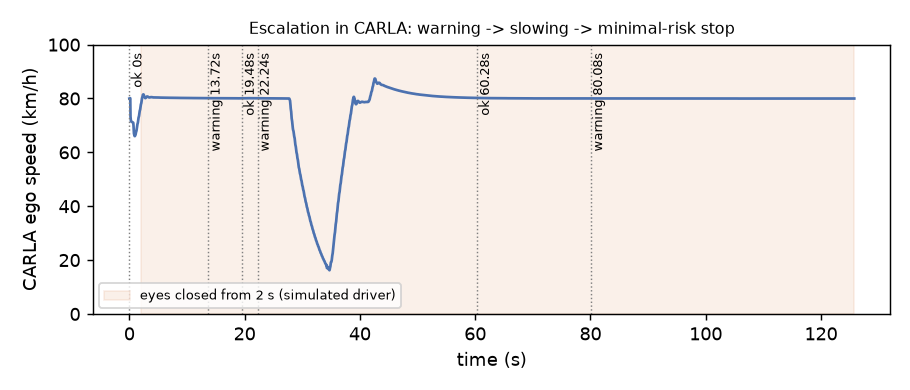
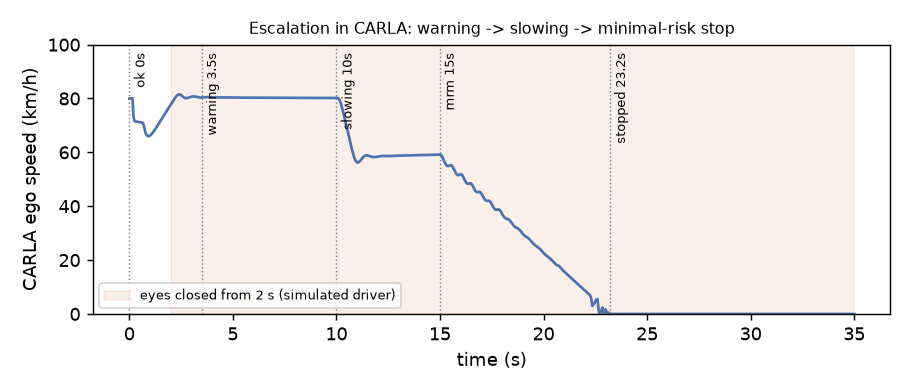
Audit fixes: correct headline numbers (22/49 same detector; night 10/27 robust, 16/27 with EAR), escalation chart from the right run, LICENSE (MIT) + data terms, requirements.txt, unpublish private CARLA study notes, stale refs, E7 order

diff --git a/scripts/make_results.py b/scripts/make_results.py
@@ -198,9 +198,9 @@ def main():
         if (OUT / src).exists():
             shutil.copy(OUT / src, RES / dst)
     dmd_steps(RES / "dmd_steps.png")
-    live = sorted(OUT.glob("live_*.csv"))
-    if live:
-        live_escalation(live[-1], RES / "live_escalation.png")
+    esc_csv = OUT / "live_20261020_230149.csv"  # the simulated sleeping driver run shown in carla_escalation_sim.mp4 (not simply the latest run)
+    if esc_csv.exists():
+        live_escalation(esc_csv, RES / "live_escalation.png")
     cosmos_panel(OUT / "cosmos", RES / "carla_control_videos.png")
     sbs = OUT / "videos/carla_real_face_take5.mp4"  # take 5 (own face) driving the CARLA ego: live_demo.py <clip> --video
     if sbs.exists():

diff --git a/scripts/live_demo.py b/scripts/live_demo.py
@@ -173,7 +173,7 @@ try:
     tf = wp.transform
     tf.location.z += 0.3
     ebp = world.get_blueprint_library().find("vehicle.tesla.model3")
-    ebp.set_attribute("role_name", "hero")  # lets the replay (carla_video.py) find the ego among the traffic
+    ebp.set_attribute("role_name", "hero")  # marks the ego among the traffic (CARLA recorder queries, e.g. collisions by role "hero")
     ego = world.spawn_actor(ebp, tf)
     actors.append(ego)
     fwd = wp.transform.get_forward_vector()

diff --git a/README.md b/README.md
@@ -49,7 +49,7 @@ Eyes close → sleep warning → DMS level WARNING in the car. The driver looks 
   <img src="results/demo_carla_safe_stop.gif" width="420" alt="CARLA: slowing, minimal-risk manoeuvre, lane change right, stop at the lane edge">
   <img src="results/live_escalation.png" width="440" alt="CARLA ego speed during escalation">
 </p>
-<p align="center"><sub>If the driver stays asleep (simulated driver, eyes closed from 2 s): warning 3.5 s, slowing to 60 km/h from 10 s,
+<p align="center"><sub>If the driver stays asleep (simulated driver, eyes closed from 2 s): warning 3.5 s, slowing to 60 km/h from 10 s (8 s after the eyes closed),
 minimal-risk manoeuvre from 15 s (hazards on, CARLA's planner checks the right lane is free, moves one lane right, brakes at
 2 m/s² to the lane's right edge), standstill at 23.2 s.</sub></p>
 <p align="center"><a href="results/videos/carla_minimal_risk_manoeuvre.mp4?raw=true">⬇ full run, 35 s (MP4 download)</a> · GIF above is a short excerpt</p>
@@ -58,7 +58,7 @@ minimal-risk manoeuvre from 15 s (hazards on, CARLA's planner checks the right l
 
 1. **Most of the early "failures" were test-setup mistakes, not detector mistakes.** On real drivers the first run caught only
    7 of 66 events in time. Scoring only where the dataset has labels, calibrating over 20 s instead of 2 s, and defining
-   "closed" as lids actually shut raised that to 30 of 49, without changing the detector.
+   "closed" as lids actually shut raised that to 22 of 49 with the same blink-score detector (30 of 49 with the EAR signal).
 2. **Big AI models did not beat the simple signals.** DINOv2 and CLIP (foundation models) recognised closed eyes about as well as
    the simple eyelid measurement (≈ 97 % per frame). Large chat-style vision models (VLMs) were close to guessing and took
    3-9 seconds per frame. For a warning that must come within 0.2 s, the small fast model is the right tool.
@@ -76,7 +76,7 @@ minimal-risk manoeuvre from 15 s (hazards on, CARLA's planner checks the right l
 3. **Driver state changes the crash outcome, and detector accuracy decides by how much.** In CARLA, a distracted driver with a
    standard collision warning crashes at 30 and 50 km/h; warning earlier because the camera flags the distraction avoids both.
    A Monte Carlo over driver reaction times then plugs in the accuracy measured on real drivers: at 50 km/h the crash rate falls
-   from 87 % (no DMS) to 44 % (our measured DMS) and 17 % (ideal DMS). Reaction times are an assumption; the chain is the point.
+   from 87 % (no DMS) to 44 % (measured DMS: EAR, lids-shut labels, 61 % caught) and 17 % (ideal DMS). Reaction times are an assumption; the chain is the point.
 
 <p align="center">
   <img src="results/dmd_steps.png" width="49%" alt="DMD hit rate per measurement fix">
@@ -86,7 +86,7 @@ minimal-risk manoeuvre from 15 s (hazards on, CARLA's planner checks the right l
   <img src="results/dms_safety_mc.png" width="90%" alt="Crash probability vs speed for no DMS, measured DMS and ideal DMS">
 </p>
 
-Personal project: small datasets, simplified car physics, no product claims.
+Personal project by Harish Deepak (TU Darmstadt), October 2026: small datasets, simplified car physics, no product claims.
 
 Every number, including what did not work: [`docs/EXPERIMENTS.md`](docs/EXPERIMENTS.md). How each warning is scored: [`docs/METHOD.md`](docs/METHOD.md).
 
@@ -124,7 +124,7 @@ Methods are organised in tiers, the way production DMS work splits them; every t
 
 | Tier | Runs where | Methods | Role here |
 |---|---|---|---|
-| 1. Real time | CPU, 25+ fps | MediaPipe blink score / EAR, head pose, MobileGaze CNN | warnings, escalation, CARLA |
+| 1. Real time | CPU, 25+ fps | MediaPipe blink score / EAR, head pose (MobileGaze CNN: 12-17 fps, below 25) | warnings, escalation, CARLA |
 | 2. Stronger perception | GPU, ~4 ms/frame | DINOv2 / CLIP features + linear probe | does a foundation backbone help? |
 | 3. Offline / cloud | seconds per frame | hosted VLMs (Llama 3.2 Vision, Nemotron VL) | auto-labelling, event review |
 | 4. Data generation | offline | Blender drivers, image variants, CARLA, Cosmos control videos | test cases you cannot record safely |
@@ -172,12 +172,16 @@ driver-attention-bench/
 ├── scripts/                entry points
 │   ├── run_clip.py         one video / camera → per-frame CSV + warnings
 │   ├── replay.py           re-run the decision step on saved signals (threshold sweeps, LOSO)
-│   ├── render_overlay.py   burn decisions, truth and warnings into a video   cues_to_labels.py  voice-cue log → labels
+│   ├── render_overlay.py   burn decisions, truth and warnings into a video
+│   ├── cues_to_labels.py   voice-cue log → labels (no detections used)
 │   ├── dmd_to_labels.py    DMD OpenLABEL → events + scoring scope
-│   ├── carla_fcw.py        collision-warning sweep      dms_safety_mc.py  DMS accuracy → crash Monte Carlo
+│   ├── carla_fcw.py        collision-warning sweep
+│   ├── dms_safety_mc.py    DMS accuracy → crash-probability Monte Carlo
 │   ├── live_demo.py        DMS → escalation → CARLA (traffic, minimal-risk manoeuvre via CARLA BasicAgent, --video)
 │   ├── ros2/               dms_state_pub.py (rclpy), record.sh (rosbag2)
-│   ├── fm_eye_probe.py     DINOv2 / CLIP probes (DMD)   ir_eye_probe.py  infrared (MRL Eye)   vlm_arm.py  hosted VLMs
+│   ├── fm_eye_probe.py     DINOv2 / CLIP probes (DMD)
+│   ├── ir_eye_probe.py     infrared eye images (MRL Eye)
+│   ├── vlm_arm.py          hosted vision-language models
 │   ├── cosmos_transfer.py  Cosmos Transfer request (prepared, endpoint unavailable on free tier)
 │   └── make_results.py     builds results/ from out/
 ├── scenarios/*.toml        test suites: clips × variants × settings
@@ -207,14 +211,18 @@ python scripts/live_demo.py sim:2-40 --headless --video out.mp4   # simulated dr
 bash scripts/ros2/record.sh
 ```
 
-**Setup.** Python 3.12: `mediapipe opencv-python onnxruntime carla matplotlib` (+ `torch transformers scikit-learn` for the
-foundation-model arms, `shapely networkx` for CARLA's navigation agents used in the minimal-risk manoeuvre). Models go in `models/`, not in git:
+**Setup.** Python 3.12: `pip install -r requirements.txt` (`mediapipe opencv-python onnxruntime carla matplotlib` (+ `torch transformers scikit-learn` for the
+foundation-model arms, `shapely networkx` for CARLA's navigation agents used in the minimal-risk manoeuvre)). Models go in `models/`, not in git:
 - `face_landmarker.task`: https://storage.googleapis.com/mediapipe-models/face_landmarker/face_landmarker/float16/1/face_landmarker.task
 - `yunet.onnx` (optional face fallback): `face_detection_yunet_2023mar.onnx` from opencv_zoo
 - `mobileone_s0_gaze.onnx` (optional `--gaze mobilegaze` arm): MobileGaze MobileOne-S0 export, MIT licence
 
 DMD is not redistributed (CC BY-NC-ND): request it from Vicomtech, then `python scripts/dmd_to_labels.py`.
 Optional parts (ROS 2, Blender, Cosmos): [`docs/details/`](docs/details/).
+
+## Licence
+
+Code: MIT (see `LICENSE`). Data and models are third-party and keep their own terms: DMD (Vicomtech, CC BY-NC-ND 4.0) is not redistributed; the NITYMED clips shown are CC BY 4.0 (Petrellis et al.); MediaPipe, MobileGaze, DINOv2 and CLIP models are downloaded from their sources.
 
 ## Limitations
 

diff --git a/docs/EXPERIMENTS.md b/docs/EXPERIMENTS.md
@@ -77,7 +77,7 @@ Free NVIDIA build.nvidia.com API, zero-shot, 142 frames. DMD is never sent (lice
 | Nemotron VL 120B (reasoning) | 0.59 | 0.63 | 8.6 (29 of 142 unparseable answers) |
 
 For comparison, the real-time pipeline scores ~0.97 per frame on eye state (E4) at ~30 ms. Zero-shot VLMs are near chance on
-eyelids and 100-300x too slow for a 25 Hz warning; their use is offline (labelling help, describing an event afterwards).
+eyelids and about 90-290x too slow for a 25 Hz warning; their use is offline (labelling help, describing an event afterwards).
 Caveat: 142 frames, synthetic faces, closures behind sunglasses count as "closed" in the labels.
 
 Listed but not callable on the free tier (HTTP 404 "Function not found for account"): Cosmos Reason 2, Gemma 3, VILA, Phi-3 Vision.
@@ -95,7 +95,18 @@ Listed but not callable on the free tier (HTTP 404 "Function not found for accou
 At 80 km/h a 2 s warning is too late even for an attentive driver: the sweep shows the limit of warning-only systems.
 
 **Live escalation** (`scripts/live_demo.py`, simulated driver, eyes closed from 2 s): warning 3.5 s, slowing 10 s, minimal-risk stop 15 s,
-standstill 22.5 s (`results/live_escalation.png`). The DMS state is also published as ROS 2 topic `/dms/state` and recorded to a rosbag (`details/ROS2.md`).
+standstill 23.2 s after the MRM fix in E10 (`results/live_escalation.png`). The DMS state is also published as ROS 2 topic `/dms/state` and recorded to a rosbag (`details/ROS2.md`).
+
+## E7. Speed
+
+| Part | Speed |
+|---|---|
+| default pipeline (MediaPipe, CPU) | ~35 fps Windows / ~58 fps WSL |
+| MediaPipe Face Landmarker alone, WSL, CPU (XNNPACK) vs GPU delegate | CPU 86 fps; GPU via OpenGL ES → Mesa D3D12 → RTX 4050: 6.4 fps (translation layers + frame copies dwarf a tiny model); software OpenGL: fails |
+| with MobileGaze | ~12-17 fps (below the 25 Hz SD-202 video rate) |
+| DINOv2 / CLIP on two eye crops (GPU) | 3.5-4.5 ms per frame |
+| hosted VLM | seconds per frame: offline use only |
+
 
 ## E8. Live phone camera (own face, voice-guided takes)
 
@@ -146,7 +157,7 @@ Two fixes made on the way: video frames (30 fps) now all feed the DMS while the 
 tick per frame ran the car 1.5x slow); the Traffic Manager is pinned to the start lane (`tm.set_path`), because a replay showed the
 minimal-risk stop ending at a highway-exit gore instead of in lane. The scene now loads props, street lights, buildings and foliage on top of the ground layer (fits the 6 GB GPU, ~2.7 GB) and adds six Traffic-Manager cars in the neighbouring lanes, so the slow-down and the stop in lane are visible against traffic.
 
-**Minimal-risk manoeuvre, done like the regulation and CARLA's own planner.** UN R157 (automated lane keeping) requires the MRM to
+**Minimal-risk manoeuvre, done like the regulation and CARLA's own planner.** UN R157 (automated lane keeping, https://unece.org/sites/default/files/2023-12/R157e.pdf) requires the MRM to
 slow the car "inside the lane" at ≤ 4 m/s², hazard lights from its start, standstill, and no move-off without manual input. On top,
 as some production systems do, the car now moves to the slower lane first when that is safe: at the MRM start CARLA's reference
 `BasicAgent` (LocalPlanner + PID) takes over from the Traffic Manager; each tick it checks, exactly like CARLA's `BehaviorAgent`,
@@ -185,7 +196,7 @@ Fix: **robust calibration**. "Eyes open" = the most-open 20 % of the calibration
 plausible open values. Truth: two night videos hand-labelled at 0.5 s steps without the system's output (25 microsleeps, 27
 expected warnings). Hand labels are ±0.3 s, so a hit here = warning between the required moment -0.5 s and the event end +0.5 s.
 
-| Method | Night: hits / false alerts | DMD (lids shut, ±0.2 s) | Synthetic | Own take 5 |
+| Method | Night: hits / false alerts (count) | DMD (lids shut, ±0.2 s) | Synthetic | Own take 5 |
 |---|---|---|---|---|
 | Blink, median calibration (old default) | 7/27, 0 | 22/49, 8 | 15/18, 0 | 4/4, 0 |
 | Blink, robust calibration (new default) | 10/27, 0 | 22/49, 8 | 15/18, 0 | 4/4, 0 |
@@ -196,8 +207,7 @@ expected warnings). Hand labels are ±0.3 s, so a hit here = warning between the
 Reading: robust calibration costs nothing on any other dataset and helps at night, so it is now the default. A well-chosen fixed
 threshold is a real alternative: EAR fixed at 0.15 gives 31/49 on DMD (17 false alerts) vs 30/49 (14) calibrated, and the
 leave-one-driver-out choice still prefers calibration for its fewer false alerts; a fixed blink threshold helps at night but adds
-false alerts in daylight and on the phone take. (An earlier draft said a fixed EAR threshold "collapses" on DMD: that came from
-applying blink-scale thresholds to EAR and was wrong.) No single eye signal wins everywhere: EAR is better on DMD and at night, the blink score on the daytime phone
+false alerts in daylight and on the phone take. No single eye signal wins everywhere: EAR is better on DMD and at night, the blink score on the daytime phone
 take. Default stays blink score; EAR (`--eye ear`) is the recommended setting for night and real-car footage.
 
 **Same flaw, gaze side** (found by watching the night overlay): the clip showed "looking away" whenever the driver's eyes were open.
@@ -207,16 +217,6 @@ head and eye-direction baseline only from calibration frames whose eyes are open
 disappeared (only microsleep/sleep remain); re-checked on all labelled data with no change (take 5: 4/4; synthetic: 15/18;
 DMD: identical on every arm, including the gaze clips).
 
-## E7. Speed
-
-| Part | Speed |
-|---|---|
-| default pipeline (MediaPipe, CPU) | ~35 fps Windows / ~58 fps WSL |
-| MediaPipe Face Landmarker alone, WSL, CPU (XNNPACK) vs GPU delegate | CPU 86 fps; GPU via OpenGL ES → Mesa D3D12 → RTX 4050: 6.4 fps (translation layers + frame copies dwarf a tiny model); software OpenGL: fails |
-| with MobileGaze | ~12-17 fps (below the 25 Hz SD-202 video rate) |
-| DINOv2 / CLIP on two eye crops (GPU) | 3.5-4.5 ms per frame |
-| hosted VLM | seconds per frame: offline use only |
-
 ## Considered, not done
 
 | Idea | Why not |
@@ -225,4 +225,4 @@ DMD: identical on every arm, including the gaze clips).
 | SAM 3 / Grounding DINO in the live loop | gives masks / boxes, not eyelid state, and too slow on 6 GB. Fits occupant monitoring (phone, child seat) or offline labelling. |
 | Small temporal model (GRU) on per-frame signals | per-frame accuracy is already ~97 %; the misses come from label timing, which a model trained on the same labels would copy. |
 | Paid cloud GPUs | project rule: free tier only. Kaggle / Colab free T4 would work for bigger models, but DMD must not be uploaded. |
-| Own phone clips | protocol ready (`details/RECORDING.md`), not recorded yet. |
+| More own recordings | 2 voice-guided phone takes are in E8; a larger own set (more people, an IR camera) is future work. |

diff --git a/docs/details/FOUNDATION.md b/docs/details/FOUNDATION.md
@@ -37,7 +37,7 @@ CPU time of the landmarker call per frame; it was measured while the MediaPipe b
 ## Caveats (read these before quoting numbers)
 
 - **Frame-level, not event-level.** We score single frames. We do not measure alert timing, PERCLOS or the SD-202 rules. The
-  event-level results are in `README.md` and `docs/LEARN.md`.
+  event-level results are in `README.md` and `docs/EXPERIMENTS.md`.
 - **Easy frames only.** Blink/transition frames are dropped, so the task is easier than real drowsiness detection.
 - **Few subjects.** Six people and 870 closed frames. A difference of 0.01 in balanced accuracy means nothing here.
 - **Thresholds are learned on training subjects only.** For (a) and (b) the cut-off is the one that maximises balanced accuracy on the
@@ -49,7 +49,7 @@ CPU time of the landmarker call per frame; it was measured while the MediaPipe b
 
 ## Speed against the 25 Hz requirement
 
-Euro NCAP SD-202 asks for at least 25 frames per second [see HANDOFF.md, "Verified facts"]. That is 40 ms per frame for everything.
+Euro NCAP SD-202 asks for at least 25 frames per second (SD-202 v1.2). That is 40 ms per frame for everything.
 - The DINOv2 and CLIP forward passes take about 4 ms per frame on this GPU. They fit the budget.
 - The face-finding pass (MediaPipe) took about 47 ms per frame on CPU in this run, under load. That alone is over 40 ms.
 - A foundation model does not replace the detector: it needs the eye crops from the detector. So on this hardware the detector

diff --git a/docs/METHOD.md b/docs/METHOD.md
@@ -60,5 +60,5 @@ to the rightmost lane if free, stop at its edge) -> stopped, no move-off. 2 s at
 |---|---|---|
 | DMD (Vicomtech) | 13 face videos, 6 drivers, per-frame eye-state and gaze-zone labels | CC BY-NC-ND, academic use; kept local, never uploaded |
 | Blender + MPFB2 | 6 synthetic driver clips with exact labels (`details/SYNTHETIC.md`) | covers sunglasses / mask safely |
-| Own phone clips | protocol in `details/RECORDING.md` | not recorded yet; never while driving |
+| Own phone clips | voice-guided takes, hand-labelled (E8); protocol in `details/RECORDING.md` | never while driving |
 | CARLA 0.9.16 | road scenes for the vehicle side | no in-cabin camera in CARLA |
